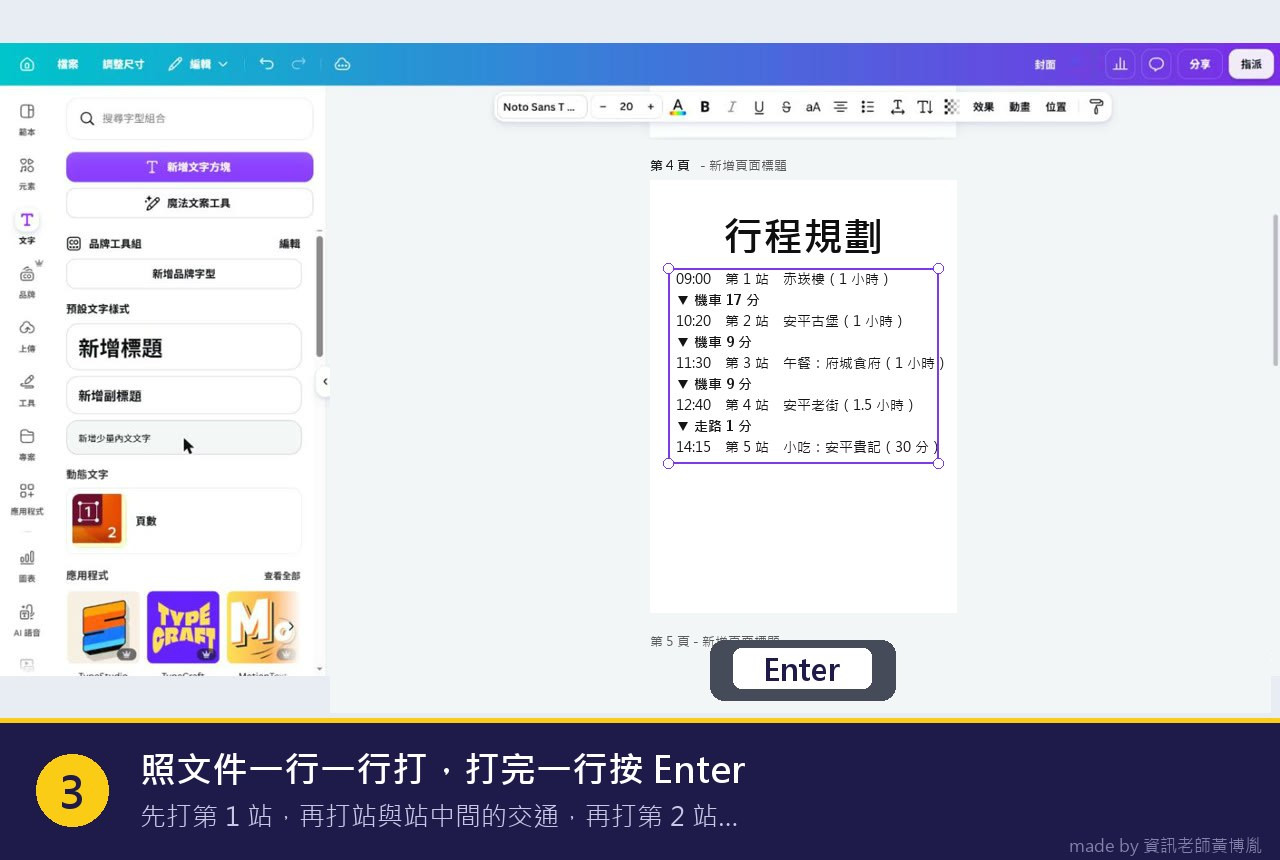
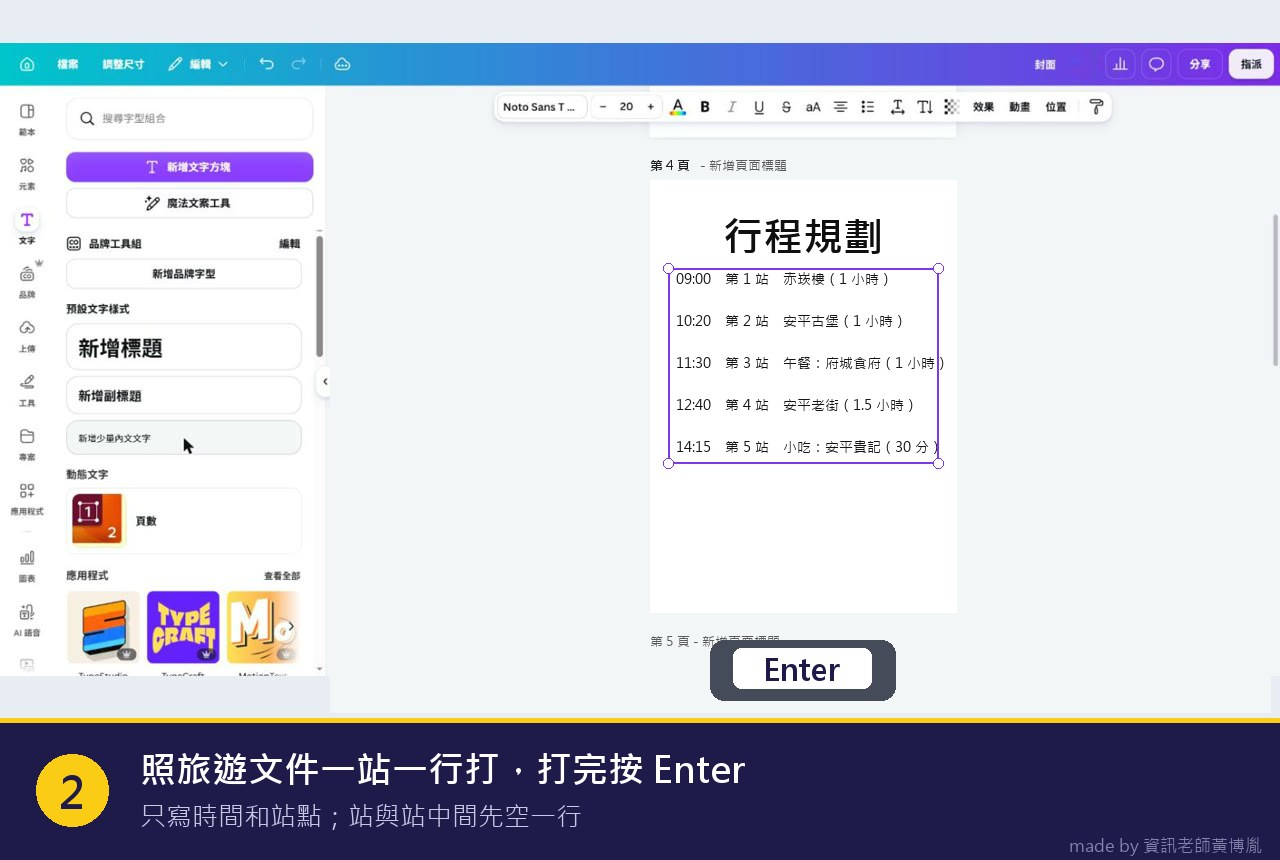
publish g4/L08 第2課: 時間表只寫站點、交通先空白、拿掉旅遊文件示意圖

diff --git a/g4/L08/pages/第2課_路線圖與行程.html b/g4/L08/pages/第2課_路線圖與行程.html
@@ -248,9 +248,9 @@
   </section>
   <section class="step s-orange hidden" data-step="5">
     <div class="shead"><h2><span class="no">5</span>排行程時間表</h2><a class="wlink" href="技能百科.html#add-text"><svg viewBox="0 0 24 24" width="24" height="24" fill="none" stroke="currentColor" stroke-width="2.4" stroke-linecap="round" stroke-linejoin="round" aria-hidden="true"><path d="M4 5a2 2 0 0 1 2-2h13v16H6a2 2 0 0 0-2 2z"/><path d="M4 19V5"/><path d="M9 8h6"/></svg>忘記怎麼做？查技能百科</a></div>
-    <div class="sc sc-flat sc-nonum" data-sc><div class="sc-slide"><p class="sc-t">新增一頁做<b>時間表</b>，下面 4 樣一定要有</p><p class="tip">先按 <b>＋</b> 新增一頁，標題打「<b>行程規劃</b>」。</p><div class="legend"><div><span class="n">1</span><span>景點<br><span class="d">每一站的名字</span></span></div><div><span class="n">2</span><span>時間<br><span class="d">幾點到、停多久</span></span></div><div><span class="n">3</span><span>交通方式<br><span class="d">走路、機車、開車…</span></span></div><div><span class="n">4</span><span>看得出順序<br><span class="d">第 1 站、第 2 站…照順序排</span></span></div></div><p class="sub" style="margin-top:14px"><b>看你的旅遊文件</b>做。交通那幾格還沒完成：站與站中間的<b>交通方式</b>和<b>時間</b>是空的，先補上，再抄進時間表。排法可以不一樣，只要 4 樣都有。</p><div class="ss" data-ss data-imgs='[{&quot;src&quot;: &quot;../assets/步圖/行程時間表_01.jpg&quot;, &quot;cap&quot;: &quot;先看你的旅遊文件：交通那幾格是空的&quot;}, {&quot;src&quot;: &quot;../assets/步圖/行程時間表_02.jpg&quot;, &quot;cap&quot;: &quot;到行程規劃那一頁，文字 →「新增少量內文文字」&quot;}, {&quot;src&quot;: &quot;../assets/步圖/行程時間表_03.jpg&quot;, &quot;cap&quot;: &quot;照文件一行一行打，打完一行按 Enter&quot;}, {&quot;src&quot;: &quot;../assets/步圖/行程時間表_04.jpg&quot;, &quot;cap&quot;: &quot;檢查：景點、時間、交通、順序，4 樣都有&quot;}]'></div></div></div>
-    <div class="checkbox"><p class="cbt">這一步檢查</p><label><input type="checkbox" class="chk"> <span>每一站都有<b>景點</b>和<b>時間</b></span></label><label><input type="checkbox" class="chk"> <span>站與站之間有<b>交通方式</b></span></label><label><input type="checkbox" class="chk"> <span>一看就知道<b>先後順序</b></span></label></div>
-    <div class="demo"><div class="demo-h"><span class="demo-tag">👩🏫 老師示範</span><span class="demo-t">行程規劃頁：4 樣都有</span><span class="demo-hint">點圖可以放大</span></div><div class="demo-body"><div class="demo-pics"><img src="../assets/手冊_p3.jpg" alt="老師示範：手冊第 3 頁" class="shot zoomable"></div><ul class="three demo-notes"><li><span class="n">1</span><span><b>景點</b>：第 1 站到第 5 站的名字</span></li><li><span class="n">2</span><span><b>時間</b>：幾點到、停留多久</span></li><li><span class="n">3</span><span><b>交通方式與分鐘</b>：每兩站中間一行（▼ 機車 17 分）；<b>順序</b>一看就懂</span></li></ul></div></div>
+    <div class="sc sc-flat sc-nonum" data-sc><div class="sc-slide"><p class="sc-t">新增一頁做<b>時間表</b>，下面 3 樣一定要有</p><p class="tip">先按 <b>＋</b> 新增一頁，標題打「<b>行程規劃</b>」。</p><div class="legend"><div><span class="n">1</span><span>景點<br><span class="d">每一站的名字</span></span></div><div><span class="n">2</span><span>時間<br><span class="d">幾點到、停多久</span></span></div><div><span class="n">3</span><span>看得出順序<br><span class="d">第 1 站、第 2 站…照順序排</span></span></div></div><p class="sub" style="margin-top:14px"><b>看你的旅遊文件</b>做。站與站中間的<b>交通方式</b>和<b>時間</b>先<b>空白</b>，<b>寫站點就好</b>。</p><div class="ss" data-ss data-imgs='[{&quot;src&quot;: &quot;../assets/步圖/行程時間表_02.jpg&quot;, &quot;cap&quot;: &quot;到行程規劃那一頁，文字 →「新增少量內文文字」&quot;}, {&quot;src&quot;: &quot;../assets/步圖/行程時間表_03.jpg&quot;, &quot;cap&quot;: &quot;照旅遊文件一站一行打，打完按 Enter&quot;}, {&quot;src&quot;: &quot;../assets/步圖/行程時間表_04.jpg&quot;, &quot;cap&quot;: &quot;檢查：站點、時間、順序都有了&quot;}]'></div></div></div>
+    <div class="checkbox"><p class="cbt">這一步檢查</p><label><input type="checkbox" class="chk"> <span>每一站都有<b>景點</b>和<b>時間</b></span></label><label><input type="checkbox" class="chk"> <span>站與站中間<b>先空白</b></span></label><label><input type="checkbox" class="chk"> <span>一看就知道<b>先後順序</b></span></label></div>
+    <div class="demo"><div class="demo-h"><span class="demo-tag">👩🏫 老師示範</span><span class="demo-t">行程規劃頁：補完交通後的樣子</span><span class="demo-hint">點圖可以放大</span></div><div class="demo-body"><div class="demo-pics"><img src="../assets/手冊_p3.jpg" alt="老師示範：手冊第 3 頁" class="shot zoomable"></div><ul class="three demo-notes"><li><span class="n">1</span><span><b>景點</b>：第 1 站到第 5 站的名字</span></li><li><span class="n">2</span><span><b>時間</b>：幾點到、停留多久</span></li><li><span class="n">3</span><span><b>順序</b>一看就懂；站與站中間的交通方式和分鐘，你先<b>空白</b>（老師示範是補完後的樣子）</span></li></ul></div></div>
     <div class="stepnav"></div>
   </section>
   <section class="step s-rose hidden" data-step="6">
@@ -385,7 +385,7 @@ var firebaseConfig = {
   appId:"1:1034787516465:web:73c334b2ddad152c472510",
   measurementId:"G-37P75R7TZ7"
 };
-var LESSON={"ws": "g4-L08-2", "path": "g4/L08", "wstitle": "台南小導遊：Canva 導覽手冊 第 2 課（路線圖、行程時間表）", "names": ["加一頁", "目錄", "畫路線", "貼地圖", "時間表", "交作業"], "quiz": [], "qdefs": [{"id": "q2", "steps": [1], "label": "加一頁", "text": "手冊多了一頁（目錄），有標題（勾選）。"}, {"id": "q3", "steps": [2], "label": "目錄", "text": "第 2 頁目錄有每個章節名（一行一個）、靠左、每行有項目符號（小圓點），頁碼先不填（全部勾選）。"}, {"id": "q4", "steps": [3, 4], "label": "路線圖", "text": "Google 地圖上有全部的站、看到整條路線；路線圖那一頁貼了夠大的地圖並寫了圖片來源（全部勾選）。"}, {"id": "q5", "steps": [5], "label": "時間表", "text": "行程規劃那一頁的時間表有景點、時間、交通方式，而且看得出順序（全部勾選）。"}]};
+var LESSON={"ws": "g4-L08-2", "path": "g4/L08", "wstitle": "台南小導遊：Canva 導覽手冊 第 2 課（路線圖、行程時間表）", "names": ["加一頁", "目錄", "畫路線", "貼地圖", "時間表", "交作業"], "quiz": [], "qdefs": [{"id": "q2", "steps": [1], "label": "加一頁", "text": "手冊多了一頁（目錄），有標題（勾選）。"}, {"id": "q3", "steps": [2], "label": "目錄", "text": "第 2 頁目錄有每個章節名（一行一個）、靠左、每行有項目符號（小圓點），頁碼先不填（全部勾選）。"}, {"id": "q4", "steps": [3, 4], "label": "路線圖", "text": "Google 地圖上有全部的站、看到整條路線；路線圖那一頁貼了夠大的地圖並寫了圖片來源（全部勾選）。"}, {"id": "q5", "steps": [5], "label": "時間表", "text": "行程規劃那一頁的時間表有景點、時間，而且看得出順序（站與站中間先空白）（全部勾選）。"}]};
 
 (function(){
   function $(id){return document.getElementById(id);}
